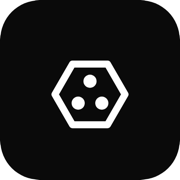
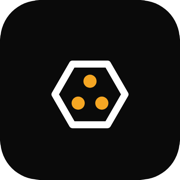
feat: split-screen login, brand (amber + Space Grotesk/Inter), add missing create-board UI

Changed region(s): [[0.4444, 0.4167, 0.5556, 0.5], [0.5278, 0.5278, 0.6111, 0.6111], [0.3889, 0.5278, 0.4722, 0.6111]]

diff --git a/src/frontend/components/boards/CreateBoardDialog.tsx b/src/frontend/components/boards/CreateBoardDialog.tsx
@@ -1,0 +1,114 @@
+import { useState } from "react";
+import { toast } from "sonner";
+import { createBoard } from "@/lib/api";
+import type { Board } from "@/lib/types";
+import { Button } from "@/components/ui/button";
+import {
+  Dialog,
+  DialogContent,
+  DialogDescription,
+  DialogFooter,
+  DialogHeader,
+  DialogTitle,
+  DialogTrigger,
+} from "@/components/ui/dialog";
+import { Input } from "@/components/ui/input";
+import { Label } from "@/components/ui/label";
+import { Textarea } from "@/components/ui/textarea";
+import { Plus } from "lucide-react";
+
+function slugify(name: string): string {
+  return name
+    .trim()
+    .toLowerCase()
+    .replace(/[^a-z0-9]+/g, "-")
+    .replace(/(^-|-$)/g, "");
+}
+
+export function CreateBoardDialog({ onCreated }: { onCreated: (board: Board) => void }) {
+  const [open, setOpen] = useState(false);
+  const [submitting, setSubmitting] = useState(false);
+  const [name, setName] = useState("");
+  const [description, setDescription] = useState("");
+
+  function reset() {
+    setName("");
+    setDescription("");
+  }
+
+  async function handleSubmit(e: React.FormEvent) {
+    e.preventDefault();
+    const id = slugify(name);
+    if (!id) {
+      toast.error("Name is required");
+      return;
+    }
+    setSubmitting(true);
+    try {
+      const board = await createBoard({ id, name: name.trim(), description: description.trim() || undefined });
+      toast.success("Board created");
+      onCreated(board);
+      reset();
+      setOpen(false);
+    } catch (err) {
+      toast.error(err instanceof Error ? err.message : "Failed to create board");
+    } finally {
+      setSubmitting(false);
+    }
+  }
+
+  return (
+    <Dialog open={open} onOpenChange={setOpen}>
+      <DialogTrigger asChild>
+        <Button size="sm" className="gap-1.5">
+          <Plus className="size-4" />
+          New board
+        </Button>
+      </DialogTrigger>
+      <DialogContent className="sm:max-w-sm">
+        <form onSubmit={handleSubmit}>
+          <DialogHeader>
+            <DialogTitle>Create board</DialogTitle>
+            <DialogDescription>A board is one live task list — one per domain works well.</DialogDescription>
+          </DialogHeader>
+
+          <div className="flex flex-col gap-4 py-4">
+            <div className="flex flex-col gap-1.5">
+              <Label htmlFor="board-name">Name</Label>
+              <Input
+                id="board-name"
+                value={name}
+                onChange={(e) => setName(e.target.value)}
+                placeholder="Engineering"
+                autoFocus
+                required
+              />
+              {name.trim() && (
+                <p className="text-xs text-muted-foreground">
+                  Board id: <code>{slugify(name) || "—"}</code>
+                </p>
+              )}
+            </div>
+
+            <div className="flex flex-col gap-1.5">
+              <Label htmlFor="board-description">Description</Label>
+              <Textarea
+                id="board-description"
+                value={description}
+                onChange={(e) => setDescription(e.target.value)}
+                placeholder="Optional"
+                rows={2}
+              />
+            </div>
+          </div>
+
+          <DialogFooter>
+            <Button type="submit" disabled={submitting}>
+              {submitting ? "Creating…" : "Create board"}
+            </Button>
+          </DialogFooter>
+        </form>
+      </DialogContent>
+    </Dialog>
+  );
+}

diff --git a/src/frontend/pages/LoginPage.tsx b/src/frontend/pages/LoginPage.tsx
@@ -2,7 +2,12 @@ import { Navigate, useLocation } from "react-router-dom";
 import { useAuth } from "@/context/auth-context";
 import { HiveLogo } from "@/components/icons/HiveLogo";
 import { GoogleSignInButton } from "@/components/auth/GoogleSignInButton";
-import { Card, CardContent, CardDescription, CardHeader, CardTitle } from "@/components/ui/card";
+
+const HIGHLIGHTS = [
+  "Tasks, made by you or your agents",
+  "Live — everyone sees it update",
+  "Never claimed twice",
+];
 
 export function LoginPage() {
   const { user, loading } = useAuth();
@@ -14,19 +19,47 @@ export function LoginPage() {
   }
 
   return (
-    <div className="flex min-h-screen items-center justify-center bg-background px-4">
-      <Card className="w-full max-w-sm">
-        <CardHeader className="items-center text-center">
-          <div className="mb-2 flex size-10 items-center justify-center rounded-lg bg-primary text-primary-foreground">
+    <div className="grid min-h-screen lg:grid-cols-2">
+      <div className="hidden flex-col justify-between bg-neutral-950 p-10 text-neutral-50 lg:flex">
+        <div className="flex items-center gap-2 font-display text-lg font-semibold">
+          <HiveLogo className="size-6" />
+          Hive
+        </div>
+
+        <div className="max-w-sm">
+          <h1 className="font-display text-3xl font-semibold leading-tight">
+            One board. You and your AI agents.
+          </h1>
+          <ul className="mt-6 space-y-2 text-sm text-neutral-400">
+            {HIGHLIGHTS.map((line) => (
+              <li key={line} className="flex items-center gap-2">
+                <span className="size-1.5 rounded-full bg-primary" />
+                {line}
+              </li>
+            ))}
+          </ul>
+        </div>
+
+        <p className="text-xs text-neutral-600">Open source · github.com/lomeyollc/hive</p>
+      </div>
+
+      <div className="flex flex-col items-center justify-center gap-6 px-6 py-16">
+        <div className="flex items-center gap-2 font-display text-lg font-semibold lg:hidden">
+          <div className="flex size-9 items-center justify-center rounded-lg bg-neutral-950 text-white">
             <HiveLogo className="size-5" />
           </div>
-          <CardTitle className="text-xl">Sign in to Hive</CardTitle>
-          <CardDescription>The shared task board for you and your AI agents.</CardDescription>
-        </CardHeader>
-        <CardContent className="flex flex-col items-center gap-4 pb-8">
-          <GoogleSignInButton />
-        </CardContent>
-      </Card>
+          Hive
+        </div>
+
+        <div className="w-full max-w-xs text-center">
+          <h2 className="font-display text-xl font-semibold">Sign in</h2>
+          <p className="mt-1 text-sm text-muted-foreground">
+            The shared board for you and your AI agents.
+          </p>
+        </div>
+
+        <GoogleSignInButton />
+      </div>
     </div>
   );
 }

diff --git a/src/frontend/index.css b/src/frontend/index.css
@@ -11,8 +11,9 @@
   --card-foreground: oklch(0.145 0 0);
   --popover: oklch(1 0 0);
   --popover-foreground: oklch(0.145 0 0);
-  --primary: oklch(0.205 0 0);
-  --primary-foreground: oklch(0.985 0 0);
+  /* Hive brand: honey amber. */
+  --primary: oklch(0.72 0.17 70);
+  --primary-foreground: oklch(0.145 0 0);
   --secondary: oklch(0.97 0 0);
   --secondary-foreground: oklch(0.205 0 0);
   --muted: oklch(0.97 0 0);
@@ -22,7 +23,11 @@
   --destructive: oklch(0.577 0.245 27.325);
   --border: oklch(0.922 0 0);
   --input: oklch(0.922 0 0);
-  --ring: oklch(0.708 0 0);
+  --ring: oklch(0.72 0.17 70);
+  --font-sans:
+    "Inter", ui-sans-serif, system-ui, -apple-system, sans-serif;
+  --font-display:
+    "Space Grotesk", ui-sans-serif, system-ui, -apple-system, sans-serif;
 }
 
 .dark {
@@ -32,8 +37,8 @@
   --card-foreground: oklch(0.985 0 0);
   --popover: oklch(0.205 0 0);
   --popover-foreground: oklch(0.985 0 0);
-  --primary: oklch(0.922 0 0);
-  --primary-foreground: oklch(0.205 0 0);
+  --primary: oklch(0.72 0.17 70);
+  --primary-foreground: oklch(0.145 0 0);
   --secondary: oklch(0.269 0 0);
   --secondary-foreground: oklch(0.985 0 0);
   --muted: oklch(0.269 0 0);
@@ -69,6 +74,8 @@
   --color-border: var(--border);
   --color-input: var(--input);
   --color-ring: var(--ring);
+  --font-sans: var(--font-sans);
+  --font-display: var(--font-display);
 }
 
 @layer base {
@@ -76,6 +83,12 @@
     @apply border-border outline-ring/50;
   }
   body {
-    @apply bg-background text-foreground;
+    @apply bg-background text-foreground font-sans;
+  }
+  h1,
+  h2,
+  h3,
+  h4 {
+    @apply font-display;
   }
 }

diff --git a/src/frontend/pages/BoardListPage.tsx b/src/frontend/pages/BoardListPage.tsx
@@ -6,6 +6,7 @@ import type { Board } from "@/lib/types";
 import { Card, CardContent, CardDescription, CardHeader, CardTitle } from "@/components/ui/card";
 import { Skeleton } from "@/components/ui/skeleton";
 import { StatusBadge } from "@/components/boards/StatusBadge";
+import { CreateBoardDialog } from "@/components/boards/CreateBoardDialog";
 import type { TaskStatus } from "@/lib/types";
 
 const COUNT_STATUSES: TaskStatus[] = ["open", "in_progress", "blocked", "done"];
@@ -32,9 +33,12 @@ export function BoardListPage() {
 
   return (
     <div className="flex flex-col gap-6">
-      <div>
-        <h1 className="text-2xl font-semibold">Boards</h1>
-        <p className="text-sm text-muted-foreground">Every board is a live, agent-writable task list.</p>
+      <div className="flex items-start justify-between gap-4">
+        <div>
+          <h1 className="text-2xl font-semibold">Boards</h1>
+          <p className="text-sm text-muted-foreground">Every board is a live, agent-writable task list.</p>
+        </div>
+        <CreateBoardDialog onCreated={(board) => setBoards((prev) => [...(prev ?? []), board])} />
       </div>
 
       {error && (
@@ -52,9 +56,7 @@ export function BoardListPage() {
       )}
 
       {boards && boards.length === 0 && (
-        <p className="text-sm text-muted-foreground">
-          No boards yet. Boards are created server-side — see the README for how to seed one.
-        </p>
+        <p className="text-sm text-muted-foreground">No boards yet — create the first one above.</p>
       )}
 
       {boards && boards.length > 0 && (

diff --git a/src/frontend/index.html b/src/frontend/index.html
@@ -5,7 +5,14 @@
     <meta name="viewport" content="width=device-width, initial-scale=1.0" />
     <link rel="icon" type="image/png" href="/favicon-32.png" />
     <link rel="apple-touch-icon" href="/apple-touch-icon.png" />
-    <title>Hive</title>
+    <link rel="preconnect" href="https://fonts.googleapis.com" />
+    <link rel="preconnect" href="https://fonts.gstatic.com" crossorigin />
+    <link
+      href="https://fonts.googleapis.com/css2?family=Space+Grotesk:wght@500;600;700&family=Inter:wght@400;500;600&display=swap"
+      rel="stylesheet"
+    />
+    <meta name="description" content="The shared task board for you and your AI agents." />
+    <title>Hive — the shared board for you and your AI agents</title>
   </head>
   <body>
     <div id="root"></div>

diff --git a/src/frontend/lib/api.ts b/src/frontend/lib/api.ts
@@ -157,6 +157,14 @@ export async function getBoard(slug: string): Promise<Board> {
   return data.board;
 }
 
+export async function createBoard(input: { id: string; name: string; description?: string }): Promise<Board> {
+  const data = await request<{ board: Board }>("/api/boards", {
+    method: "POST",
+    body: JSON.stringify(input),
+  });
+  return data.board;
+}
+
 // ---------------------------------------------------------------------------
 // Tasks
 // ---------------------------------------------------------------------------

diff --git a/src/frontend/components/icons/HiveLogo.tsx b/src/frontend/components/icons/HiveLogo.tsx
@@ -17,9 +17,9 @@ export function HiveLogo({ className }: { className?: string }) {
         strokeWidth="2"
         strokeLinejoin="round"
       />
-      <circle cx="12" cy="10" r="1.3" fill="currentColor" />
-      <circle cx="9.3" cy="15" r="1.3" fill="currentColor" />
-      <circle cx="14.7" cy="15" r="1.3" fill="currentColor" />
+      <circle cx="12" cy="10" r="1.3" fill="#F5A623" />
+      <circle cx="9.3" cy="15" r="1.3" fill="#F5A623" />
+      <circle cx="14.7" cy="15" r="1.3" fill="#F5A623" />
     </svg>
   );
 }
